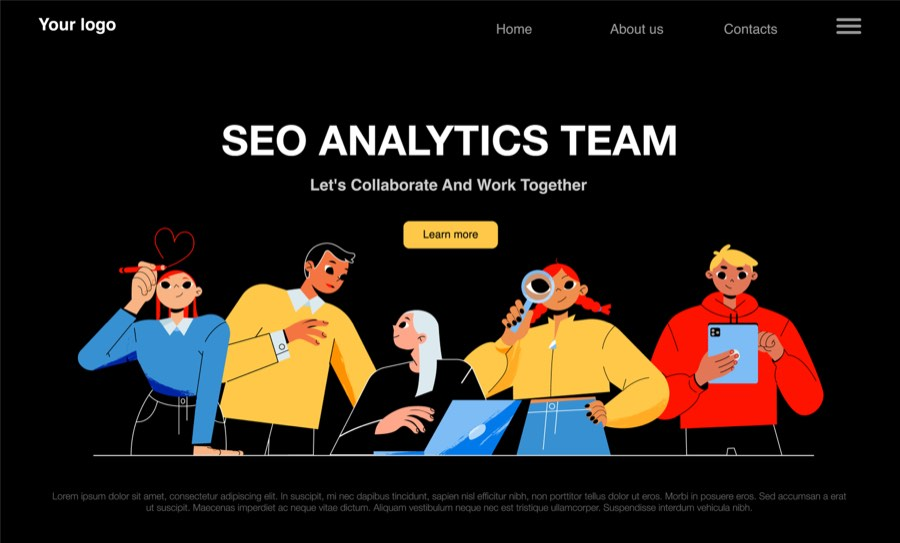
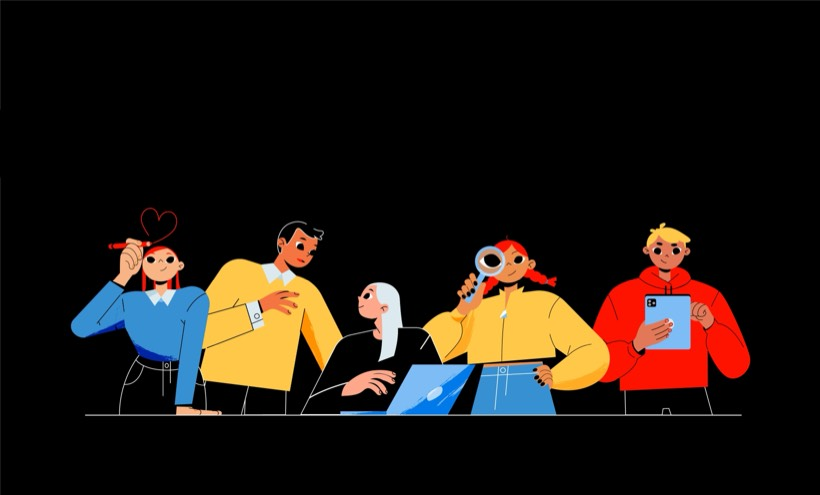
Backgrounds: solid fill colour per tab (stretches) + smaller footer illustration, all 7 images

diff --git a/src/App.tsx b/src/App.tsx
@@ -32,20 +32,21 @@ const SEED_REQUESTS: MeetRequest[] = [
 
 type Tab = 'people' | 'connections' | 'schedule' | 'map' | 'groups' | 'connect' | 'capture' | 'tasks' | 'sponsors' | 'organisers' | 'leaderboard' | 'mycard';
 
-// Background illustration per tab (files in public/bg). Every tab gets one (images reused).
-const TAB_BG: Record<Tab, string> = {
-  people: 'people.jpg',
-  connections: 'connect.jpg',
-  groups: 'groups.jpg',
-  connect: 'connect.jpg',
-  leaderboard: 'leaderboard.jpg',
-  map: 'map.jpg',
-  organisers: 'organisers.jpg',
-  schedule: 'leaderboard.jpg',
-  capture: 'connect.jpg',
-  tasks: 'organisers.jpg',
-  sponsors: 'groups.jpg',
-  mycard: 'people.jpg',
+// Per-tab: illustration pinned at bottom-center + a fill colour that matches the image
+// background so it blends and "stretches" to fill the rest of the screen. Uses all 7 images.
+const TAB_BG: Record<Tab, { img: string; fill: string }> = {
+  people:      { img: 'people.jpg',     fill: '#f3f1f7' }, // black-bg illo → light fill, footer band
+  connections: { img: 'refer.jpg',      fill: '#f5eefb' },
+  schedule:    { img: 'leadership.jpg', fill: '#eae0df' },
+  map:         { img: 'ferm.jpg',       fill: '#ffb003' },
+  groups:      { img: 'teams.jpg',      fill: '#39a2fe' },
+  connect:     { img: 'orange.jpg',     fill: '#ffb003' },
+  capture:     { img: 'blue.jpg',       fill: '#39a2fe' },
+  tasks:       { img: 'orange.jpg',     fill: '#ffb003' },
+  sponsors:    { img: 'teams.jpg',      fill: '#39a2fe' },
+  organisers:  { img: 'blue.jpg',       fill: '#39a2fe' },
+  leaderboard: { img: 'leadership.jpg', fill: '#eae0df' },
+  mycard:      { img: 'people.jpg',     fill: '#f3f1f7' },
 };
 
 const TABS: { id: Tab; icon: string; label: string }[] = [
@@ -218,20 +219,13 @@ function AppInner() {
           </div>
         )}
 
-        {/* Per-tab background illustration — full-bleed (no crop), only a 10% white veil */}
-        {TAB_BG[tab] && (
-          <div style={{
-            position: 'fixed', inset: 0, zIndex: 0, pointerEvents: 'none',
-            backgroundImage: `linear-gradient(rgba(255,255,255,0.1), rgba(255,255,255,0.1)), url(${import.meta.env.BASE_URL}bg/${TAB_BG[tab]})`,
-            backgroundSize: 'cover', backgroundPosition: 'center', backgroundAttachment: 'fixed',
-          }} />
-        )}
+        {/* Per-tab background: just the fill colour, which stretches across the whole screen */}
+        <div style={{ position: 'fixed', inset: 0, zIndex: 0, pointerEvents: 'none', backgroundColor: TAB_BG[tab].fill }} />
 
-        {/* Page content — sits on a frosted translucent panel so text stays readable on any bg */}
+        {/* Page content — transparent so the fill colour shows around the text */}
         <div className="page-content" style={{
           position: 'relative', zIndex: 1, maxWidth: 760, margin: '0 auto',
-          background: 'rgba(255,255,255,0.62)', backdropFilter: 'blur(6px)', WebkitBackdropFilter: 'blur(6px)',
-          padding: '8px 16px 40px', minHeight: 'calc(100vh - 96px)',
+          padding: '8px 16px 0',
         }}>
           {tab === 'people'      && <PeoplePage mySessionIds={mySessionIds} matchedIds={matchedIds} onMatch={addMatch} onOpenProfile={setProfileUser} />}
           {tab === 'connections' && <ConnectionsPage matchedIds={matchedIds} onOpenProfile={setProfileUser} />}
@@ -245,6 +239,13 @@ function AppInner() {
           {tab === 'organisers'  && <OrganisersPage myMatches={matchedIds.size} />}
           {tab === 'leaderboard' && <LeaderboardPage />}
           {tab === 'mycard'      && <MyCardPage mySessionIds={mySessionIds} />}
+
+          {/* Footer illustration — sits centered at the bottom on the fill colour */}
+          <img
+            src={`${import.meta.env.BASE_URL}bg/${TAB_BG[tab].img}`}
+            alt=""
+            style={{ display: 'block', width: 'min(560px, 90%)', margin: '32px auto 0', userSelect: 'none', pointerEvents: 'none' }}
+          />
         </div>
       </div>
     </I18nContext.Provider>